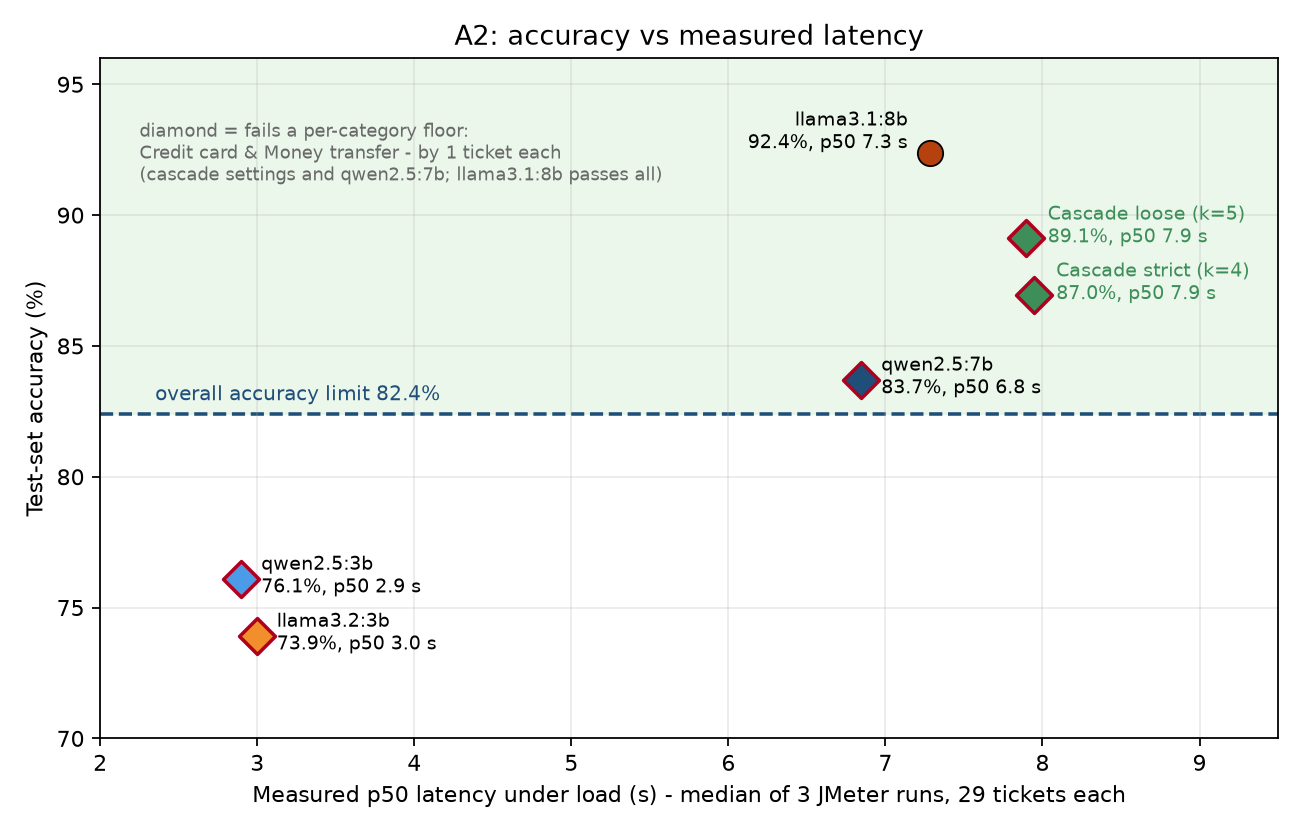
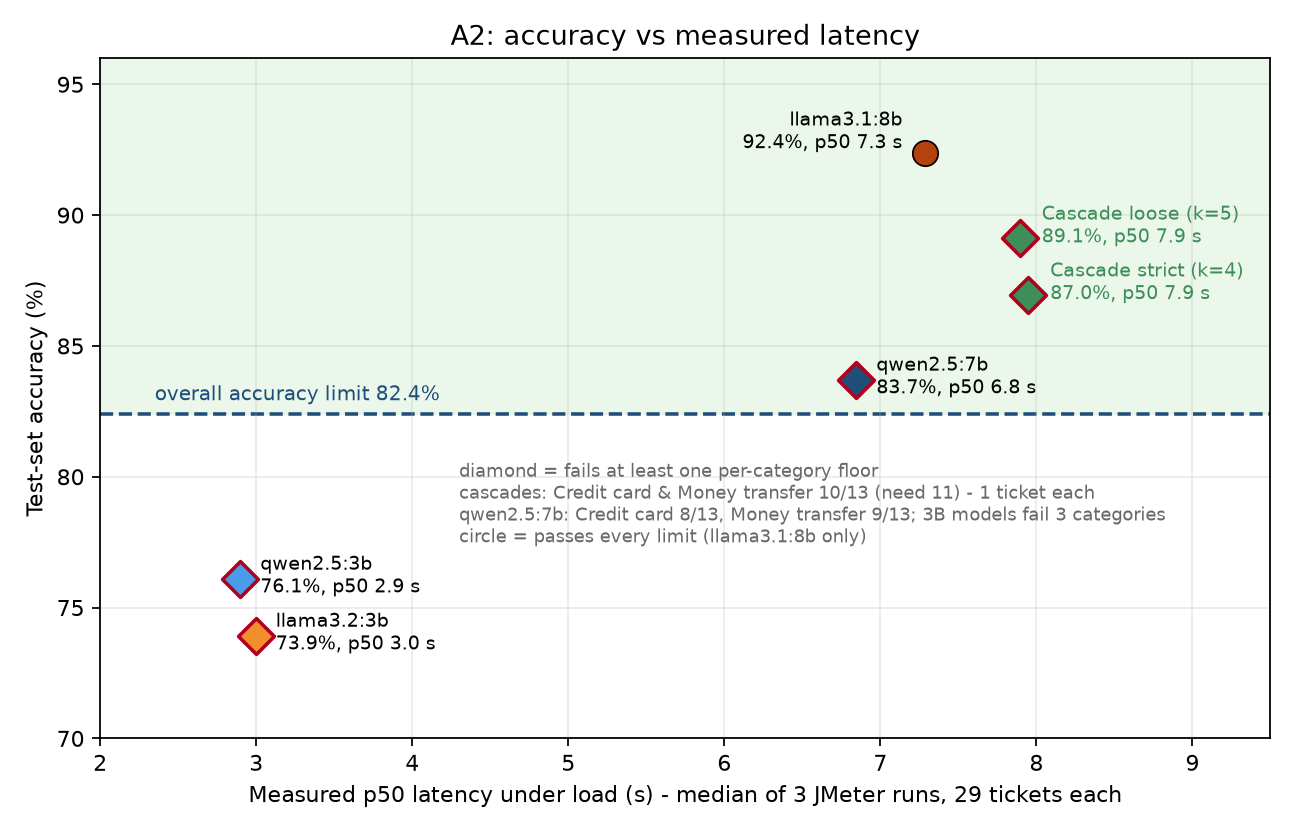
A2 slide 6: correct trade-off chart note (qwen2.5:7b misses floors by 2-3 tickets, not 1) and move it clear of point labels

diff --git a/a2/make_figures_a2.py b/a2/make_figures_a2.py
@@ -97,9 +97,13 @@ def fig_tradeoff():
                     textcoords="offset points", xytext=(10, -2), fontsize=8.5,
                     color=CASCADE_COLOR, ha="left")
 
-    ax.text(2.25, 93.6, "diamond = fails a per-category floor:\n"
-            "Credit card & Money transfer - by 1 ticket each\n"
-            "(cascade settings and qwen2.5:7b; llama3.1:8b passes all)",
+    # Floor misses checked against results/score_*.json and a2/limits.json (Credit card / Money transfer need 11/13):
+    #   cascades 10/13 & 10/13 (1 short each); qwen2.5:7b 8/13 & 9/13 (3 and 2 short); 3B models fail 3 categories.
+    # Placed in the empty lower-right area so it cannot collide with the point labels at the top.
+    ax.text(4.3, 80.6, "diamond = fails at least one per-category floor\n"
+            "cascades: Credit card & Money transfer 10/13 (need 11) - 1 ticket each\n"
+            "qwen2.5:7b: Credit card 8/13, Money transfer 9/13; 3B models fail 3 categories\n"
+            "circle = passes every limit (llama3.1:8b only)",
             fontsize=8, color="dimgray", va="top")
 
     ax.set_xlabel("Measured p50 latency under load (s) - median of 3 JMeter runs, 29 tickets each")
